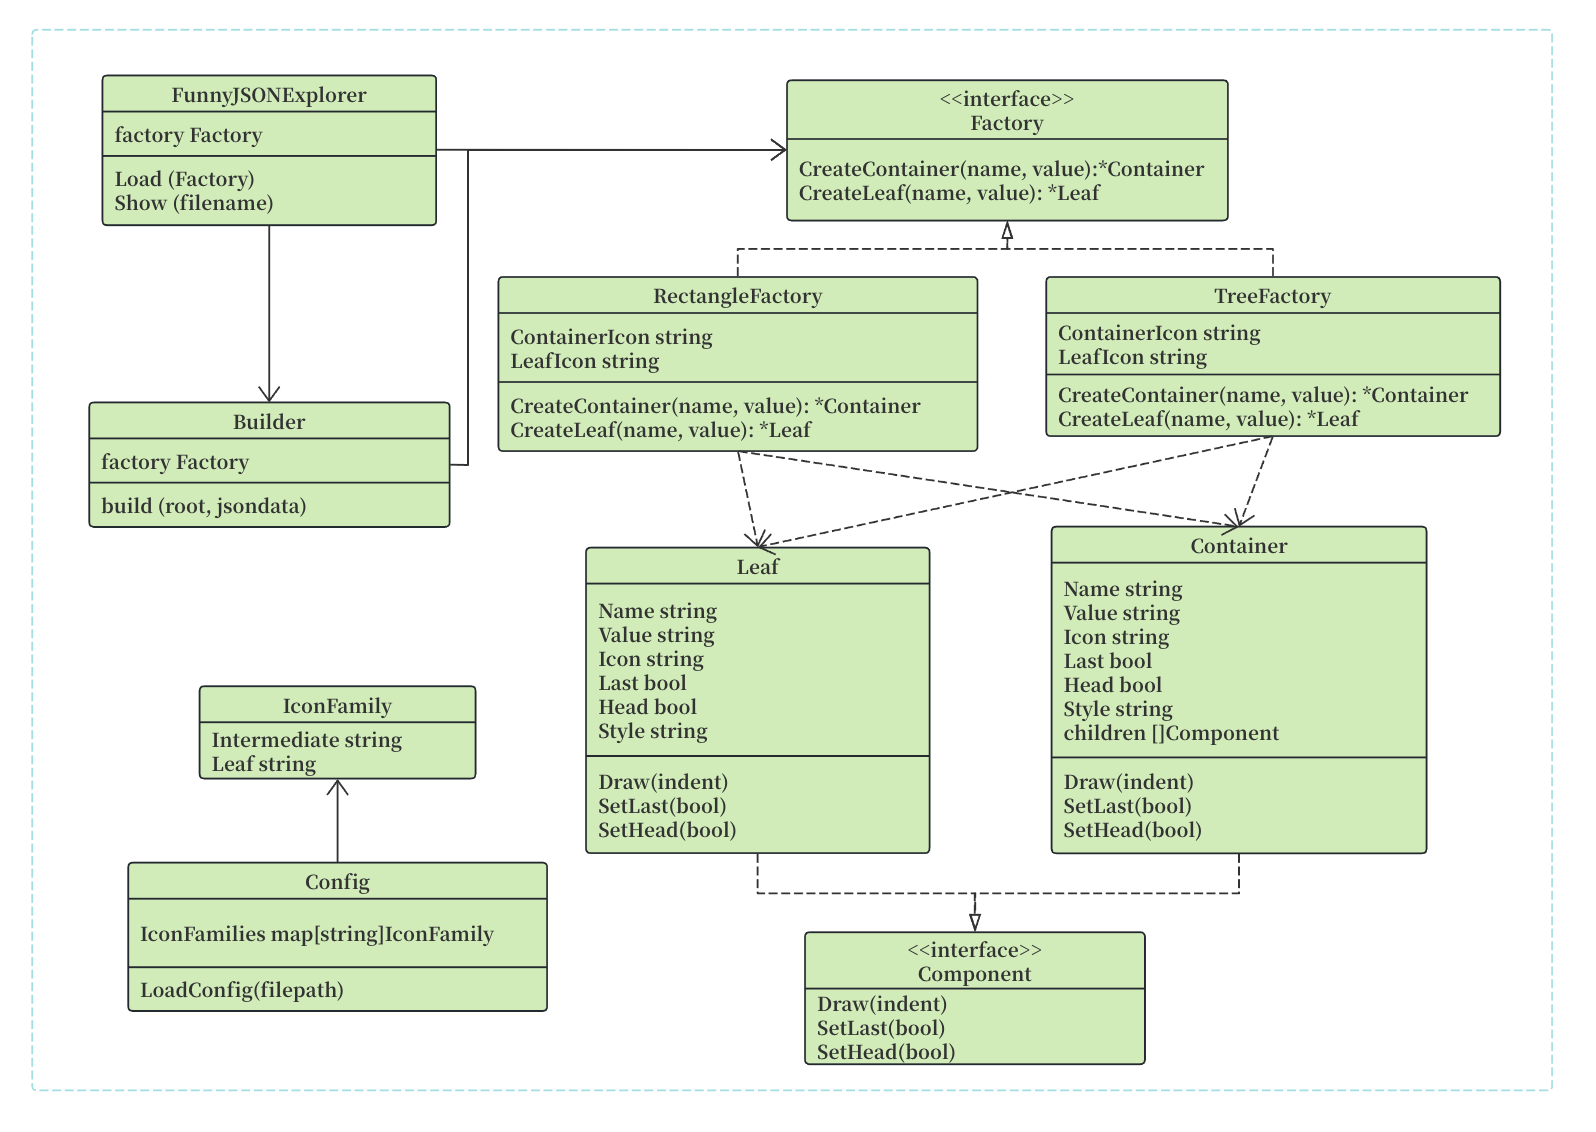
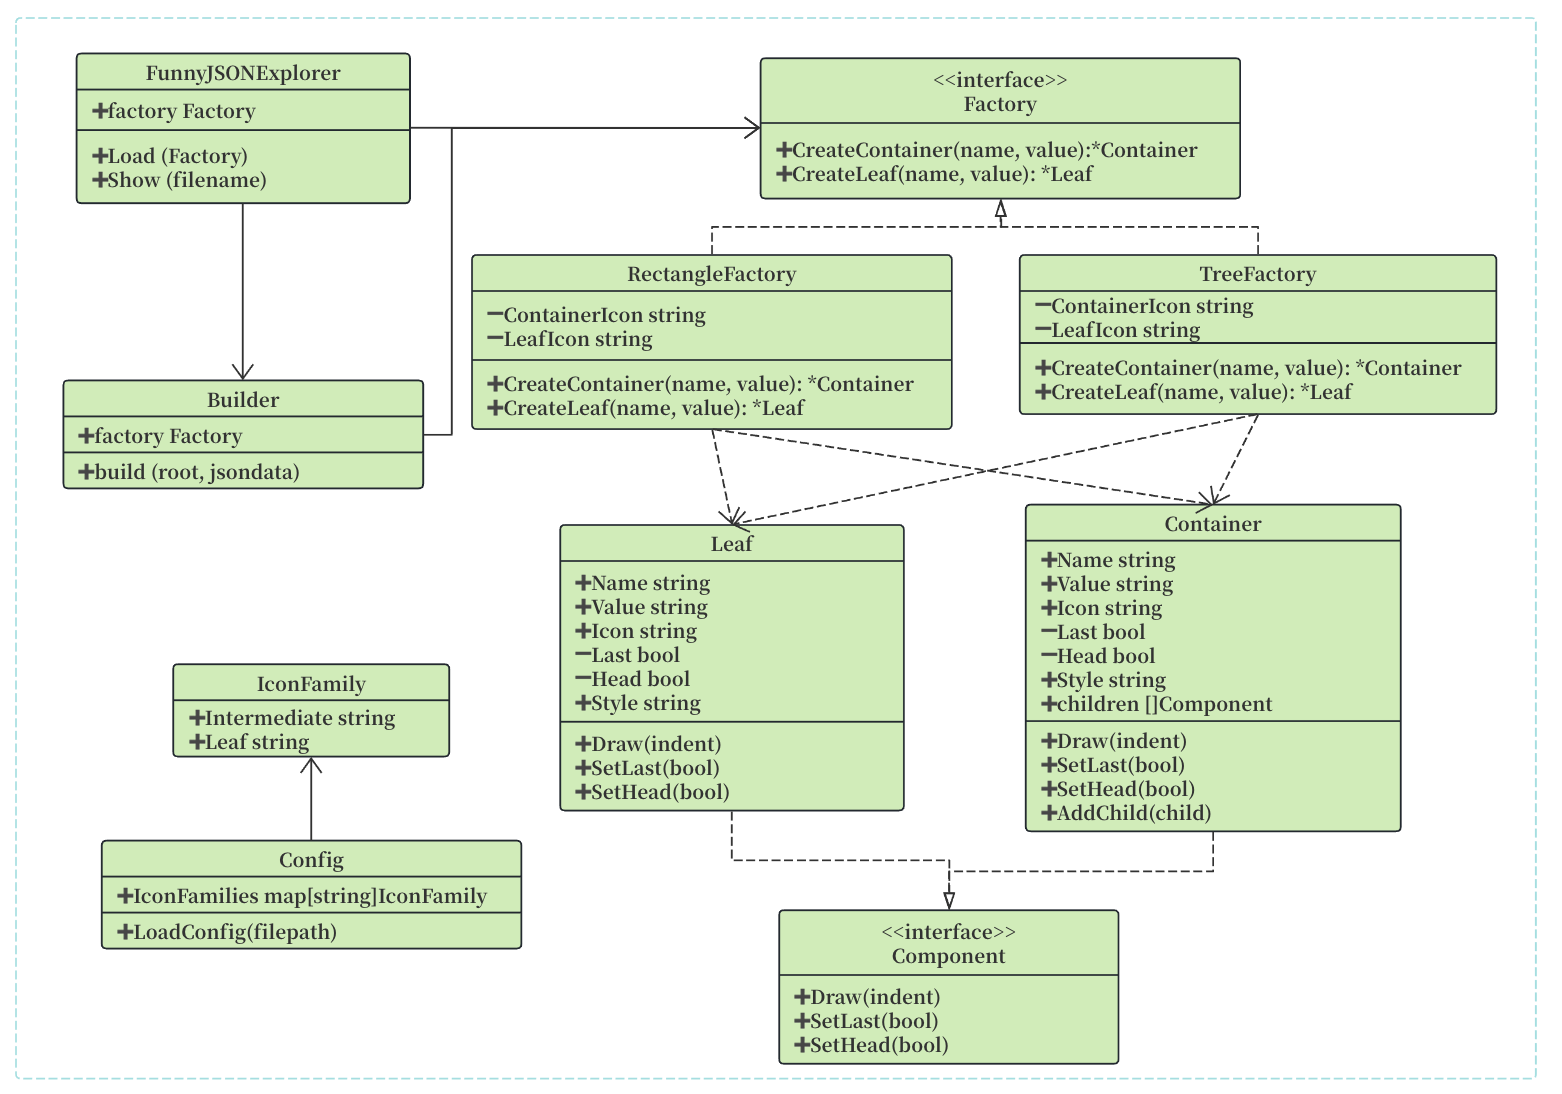
endend

Changed region(s): [[0.0307, 0.0311, 0.9834, 0.9945]]

diff --git a/README.md b/README.md
@@ -39,13 +39,13 @@ Using IconFamily: poker-face
 中间节点: ♢     叶子节点: ♤  
 ```
 
-**可以在[config/icon_config.json](config/icon_config.json)下配置图标族**
+**可以在[src/config/icon_config.json](src/config/icon_config.json)下配置图标族**
 
-**可以在[json](json)下配置需要可视化的JSON文件**
+**可以在[src/json](src/json)下配置需要可视化的JSON文件**
 
+#### UML-类图：
 
-
-
+![](tex-report/figures/uml-class.png)
 
 #### 效果展示：
 
